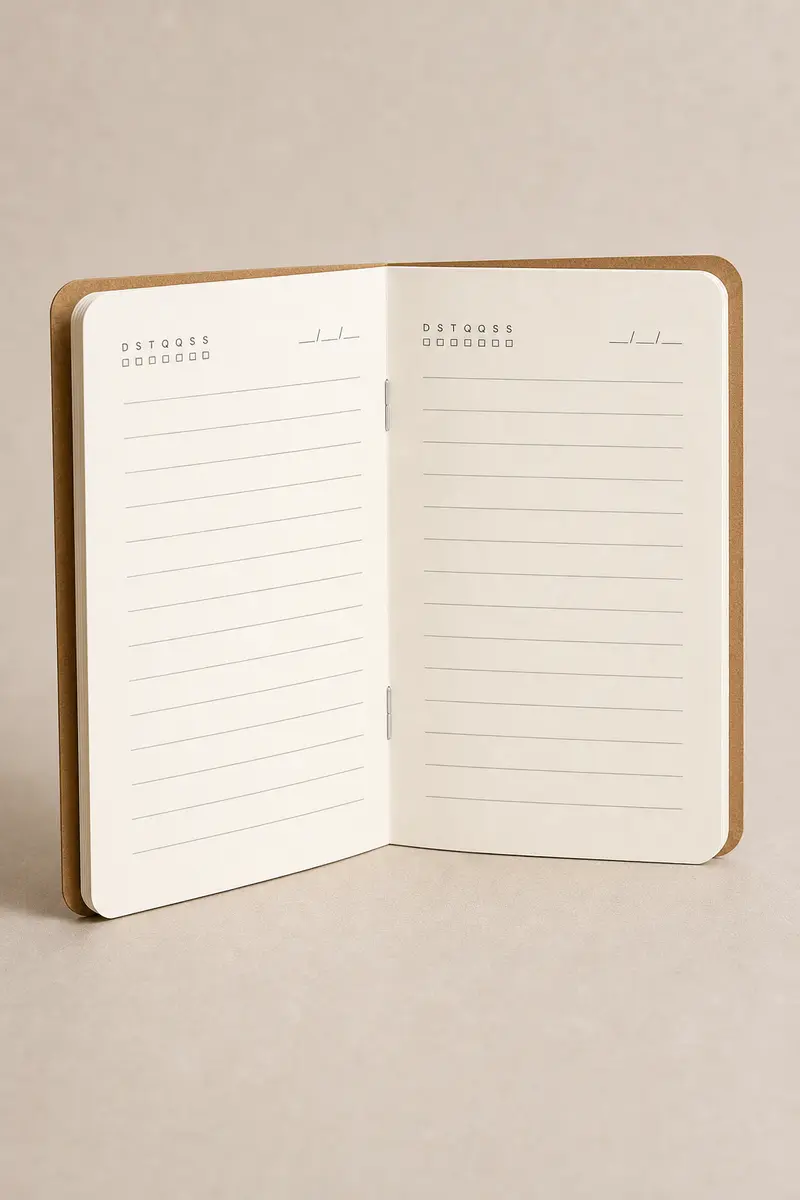
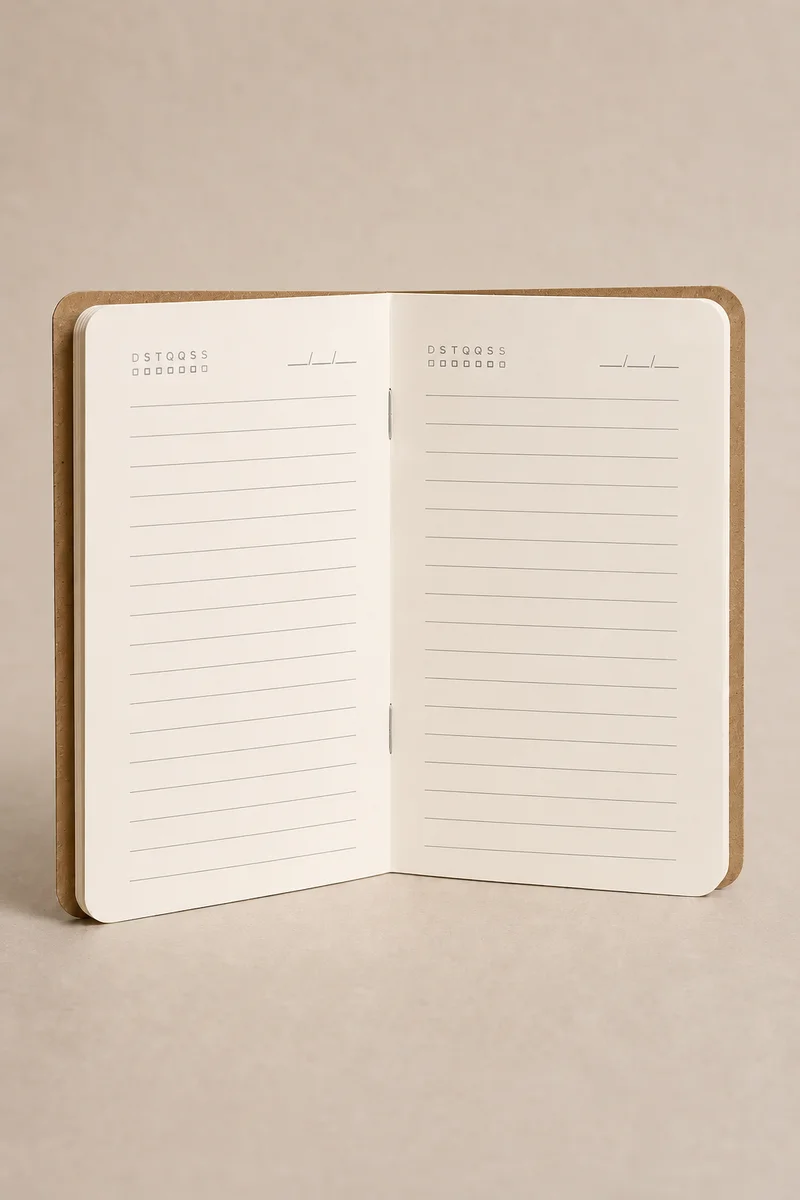
design: add percentage discount next to automatic promotion names in summary

diff --git a/index.html b/index.html
@@ -2473,10 +2473,20 @@
       Object.keys(calcResult.promocoesAplicadasMap).forEach(nomePromo => {
         const descVal = calcResult.promocoesAplicadasMap[nomePromo];
         if (descVal > 0) {
+          const promoObj = promocoesAtivas.find(p => p.Nome === nomePromo);
+          let pctText = "";
+          if (promoObj) {
+            const val = Number(promoObj.Valor) || 0;
+            if (String(promoObj.Tipo_Valor).trim().toLowerCase() === "percentual") {
+              pctText = ` (${Math.round(val)}%)`;
+            } else {
+              pctText = ` (${Math.round((val / 15) * 100)}%)`;
+            }
+          }
           const promoLine = document.createElement("div");
           promoLine.className = "summary-line";
           promoLine.style.cssText = "display: flex; justify-content: space-between; gap: 14px; padding: 12px 0; color: #28a745; font-weight: 600;";
-          promoLine.innerHTML = `<span>Promoção: ${nomePromo}</span><strong>-${currency.format(descVal)}</strong>`;
+          promoLine.innerHTML = `<span>Promoção: ${nomePromo}${pctText}</span><strong>-${currency.format(descVal)}</strong>`;
           autoPromosContainer.appendChild(promoLine);
         }
       });

diff --git a/index_v2.html b/index_v2.html
@@ -2782,10 +2782,20 @@
       Object.keys(calcResult.promocoesAplicadasMap).forEach(nomePromo => {
         const descVal = calcResult.promocoesAplicadasMap[nomePromo];
         if (descVal > 0) {
+          const promoObj = promocoesAtivas.find(p => p.Nome === nomePromo);
+          let pctText = "";
+          if (promoObj) {
+            const val = Number(promoObj.Valor) || 0;
+            if (String(promoObj.Tipo_Valor).trim().toLowerCase() === "percentual") {
+              pctText = ` (${Math.round(val)}%)`;
+            } else {
+              pctText = ` (${Math.round((val / 15) * 100)}%)`;
+            }
+          }
           const promoLine = document.createElement("div");
           promoLine.className = "summary-line";
           promoLine.style.cssText = "display: flex; justify-content: space-between; gap: 14px; padding: 12px 0; color: #28a745; font-weight: 600;";
-          promoLine.innerHTML = `<span>Promoção: ${nomePromo}</span><strong>-${currency.format(descVal)}</strong>`;
+          promoLine.innerHTML = `<span>Promoção: ${nomePromo}${pctText}</span><strong>-${currency.format(descVal)}</strong>`;
           autoPromosContainer.appendChild(promoLine);
         }
       });

diff --git a/teste/index.html b/teste/index.html
@@ -2164,10 +2164,20 @@
       Object.keys(calcResult.promocoesAplicadasMap).forEach(nomePromo => {
         const descVal = calcResult.promocoesAplicadasMap[nomePromo];
         if (descVal > 0) {
+          const promoObj = promocoesAtivas.find(p => p.Nome === nomePromo);
+          let pctText = "";
+          if (promoObj) {
+            const val = Number(promoObj.Valor) || 0;
+            if (String(promoObj.Tipo_Valor).trim().toLowerCase() === "percentual") {
+              pctText = ` (${Math.round(val)}%)`;
+            } else {
+              pctText = ` (${Math.round((val / 15) * 100)}%)`;
+            }
+          }
           const promoLine = document.createElement("div");
           promoLine.className = "summary-line";
           promoLine.style.cssText = "display: flex; justify-content: space-between; gap: 14px; padding: 12px 0; color: #28a745; font-weight: 600;";
-          promoLine.innerHTML = `<span>Promoção: ${nomePromo}</span><strong>-${currency.format(descVal)}</strong>`;
+          promoLine.innerHTML = `<span>Promoção: ${nomePromo}${pctText}</span><strong>-${currency.format(descVal)}</strong>`;
           autoPromosContainer.appendChild(promoLine);
         }
       });